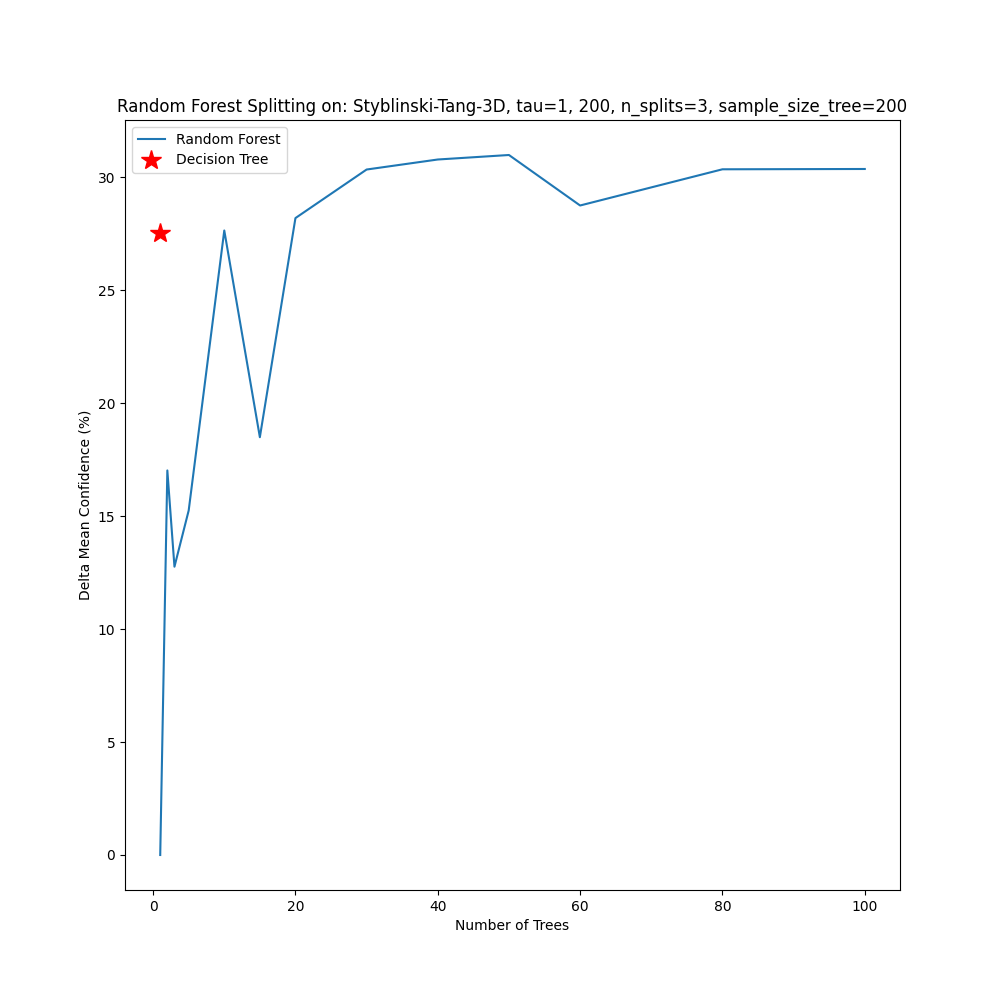
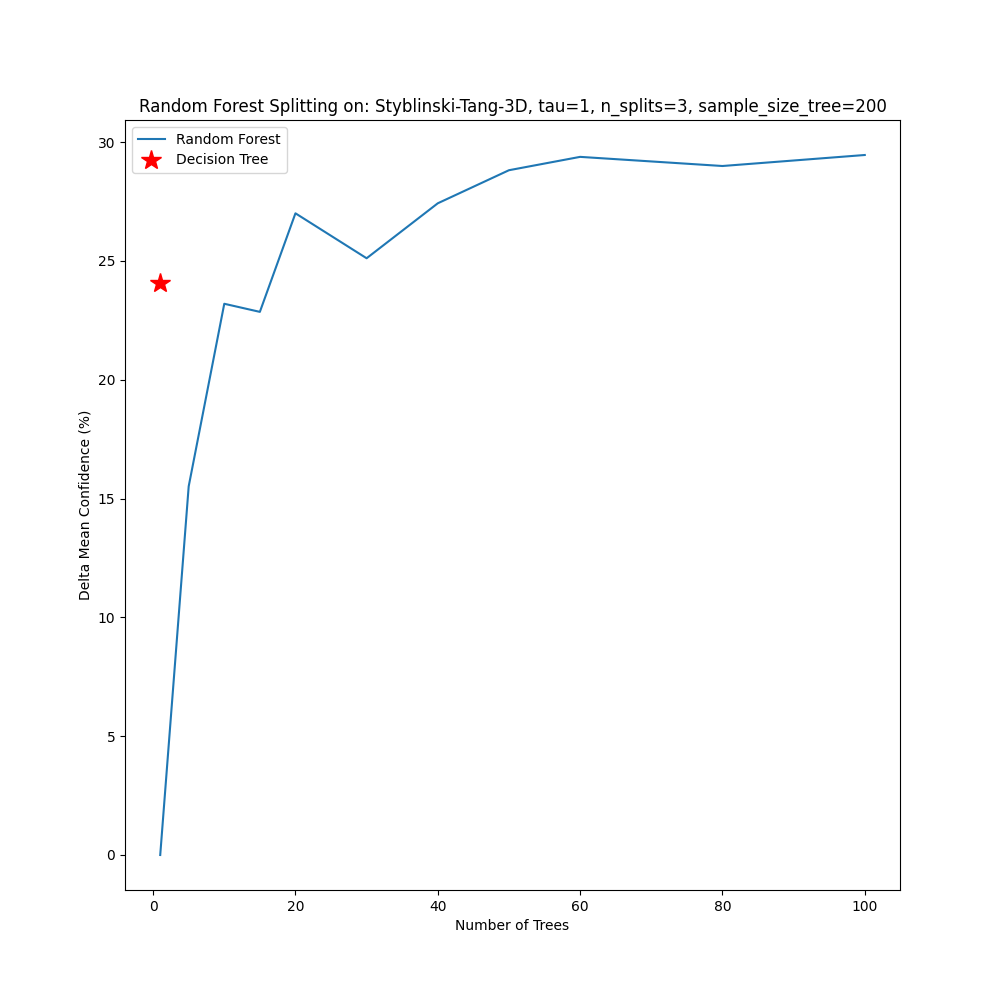
Changed Integral Calculation in Region + some bugfixes

diff --git a/src/main_paper.py b/src/main_paper.py
@@ -19,8 +19,9 @@ from src.sampler.acquisition_function import LowerConfidenceBound
 from src.sampler.bayesian_optimization import BayesianOptimizationSampler
 from src.sampler.random_sampler import RandomSampler
 from src.surrogate_models.sklearn_surrogates import GaussianProcessSurrogate
-from src.utils.plotting import plot_function, plot_config_space
-from src.utils.utils import calculate_log_delta
+from src.utils.plotting import plot_function, plot_config_space, plot_1D_confidence_lines, \
+    plot_1D_confidence_color_gradients, plot_line
+from src.utils.utils import calculate_log_delta, unscale
 
 warnings.filterwarnings("ignore", category=ConvergenceWarning)
 
@@ -177,13 +178,14 @@ def figure_6_table_1_data_generation(
                         f.config_space,
                         initial_points=4 * dimension,
                         acq_class=LowerConfidenceBound,
-                        acq_class_kwargs={"tau": tau}
+                        acq_class_kwargs={"tau": tau},
+                        seed=seed
                     )
                     sampler.sample(n_samples + sampler.initial_points)
 
-                    mmd = sampler.maximum_mean_discrepancy(300)
+                    mmd = sampler.maximum_mean_discrepancy(n_samples + sampler.initial_points, seed=seed)
 
-                    surrogate = GaussianProcessSurrogate(f.config_space)
+                    surrogate = GaussianProcessSurrogate(f.config_space, seed=seed)
                     surrogate.fit(sampler.X, sampler.y)
 
                     dt_partitioner = DecisionTreePartitioner.from_random_points(
@@ -198,7 +200,8 @@ def figure_6_table_1_data_generation(
                         dt_partitioner.partition(splits)
                         incumbent_region = dt_partitioner.get_incumbent_region(sampler.incumbent_config)
                         mc = incumbent_region.mean_confidence
-                        nll = incumbent_region.negative_log_likelihood(f)
+                        f_region = StyblinskiTang(incumbent_region.implied_config_space(seed=seed))
+                        nll = incumbent_region.negative_log_likelihood(f_region)
                         print(f"{seed=},{dimension=},{tau=},{splits=},{mmd=},{base_mc=},{base_nll=},{mc=},{nll=}")
                         d.write(f"{seed},{dimension},{tau},{splits},{mmd},{base_mc},{base_nll},{mc},{nll}\n")
                         d.flush()
@@ -338,9 +341,9 @@ def table_1_drawing(
             split_data_string = "  |  ".join(string_array)
             print(f"|  {dimension}  |  {tau:.2f} ({table_data[0][0]:.2f})   | " + split_data_string)
 
-def visualize_bad_nll():
+
+def visualize_bad_nll(num_replications: int = 30):
     # worst table entry
-    seed = 1
     n_splits = 3
     tau = 0.1
     n_dim = 3
@@ -348,22 +351,64 @@ def visualize_bad_nll():
     n_initial_samples = n_dim * 4
     selected_hp = 'x1'
 
-    f = StyblinskiTang.for_n_dimensions(n_dim, seed=seed)
-    cs = f.config_space
-    sampler = BayesianOptimizationSampler(f, cs, acq_class_kwargs={"tau": tau}, initial_points=n_initial_samples,
-                                          seed=seed)
-    sampler.sample(n_samples + n_initial_samples)
+    y_pdp_original = 0
+    var_pdp_original = 0
+    y_pdp_region = 0
+    var_pdp_region = 0
+    y_gt_region = 0
+    grid_points = None
 
-    surrogate = GaussianProcessSurrogate(cs, seed=seed)
-    surrogate.fit(sampler.X, sampler.y)
+    base_nll = 0
+    region_nll = 0
+    delta_nll = 0
+    offset_sum = 0
+    for seed in range(num_replications):
+        f = StyblinskiTang.for_n_dimensions(n_dim, seed=seed)
+        cs = f.config_space
+        sampler = BayesianOptimizationSampler(f, cs, acq_class_kwargs={"tau": tau}, initial_points=n_initial_samples,
+                                              seed=seed)
+        sampler.sample(n_samples + n_initial_samples)
 
-    ice = ICE.from_random_points(surrogate, selected_hp)
-    partitioner = DecisionTreePartitioner.from_ICE(ice)
-    partitioner.partition(max_depth=n_splits)
-    region = partitioner.get_incumbent_region(sampler.incumbent[0])
+        surrogate = GaussianProcessSurrogate(cs, seed=seed)
+        surrogate.fit(sampler.X, sampler.y)
 
-    ground_truth = f.pd_integral(*['x2', 'x3'], seed=seed)
+        ice = ICE.from_random_points(surrogate, selected_hp, seed=seed)
+        partitioner = DecisionTreePartitioner.from_ICE(ice)
+        partitioner.partition(max_depth=n_splits)
+        region = partitioner.get_incumbent_region(sampler.incumbent[0])
 
+        ground_truth = f.pd_integral(*['x2', 'x3'], seed=seed)
+
+        f_region = StyblinskiTang(region.implied_config_space(seed=seed))
+        ground_truth_region, offset = f_region.pd_integral(*['x2', 'x3'], seed=seed, return_offset=True)
+        offset_sum += offset
+
+        # nll
+        base_nll += partitioner.root.negative_log_likelihood(f)
+        region_nll += region.negative_log_likelihood(f_region)
+        delta_nll += calculate_log_delta(region_nll, base_nll)
+
+        # root values
+        pdp = PDP.from_ICE(ice)
+        y_pdp_original = y_pdp_original + pdp.y_pdp
+        var_pdp_original = var_pdp_original + pdp.y_variances
+        grid_points = pdp.grid_points
+
+        # region values
+        y_pdp_region = y_pdp_region + region.pdp_as_ice_curve.y_ice
+        var_pdp_region = var_pdp_region + region.pdp_as_ice_curve.y_variances
+
+    # normalize
+    y_pdp_original = y_pdp_original / num_replications
+    var_pdp_original = var_pdp_original / num_replications
+    y_pdp_region = y_pdp_region / num_replications
+    var_pdp_region = var_pdp_region / num_replications
+    base_nll = base_nll / num_replications
+    region_nll = region_nll / num_replications
+    delta_nll = 100 * delta_nll / num_replications
+    offset = offset_sum / num_replications
+
+    # plot
     fig, axes = plt.subplots(
         nrows=1,
         ncols=2,
@@ -372,28 +417,30 @@ def visualize_bad_nll():
         figsize=(16, 8)
     )
 
-    # nll
-    base_nll = partitioner.root.negative_log_likelihood(f)
-    region_nll = region.negative_log_likelihood(f)
-    delta_nll = calculate_log_delta(region_nll, base_nll)
+    f = StyblinskiTang.for_n_dimensions(n_dim, seed=0)
+    ground_truth = f.pd_integral(*['x2', 'x3'], seed=0)
+    grid_points = unscale(grid_points, ground_truth.config_space).squeeze(axis=1)
+
+    def ground_truth_region(**args):
+        return ground_truth(**args) + offset
 
     # original pdp
-    pdp = PDP.from_ICE(ice)
-    pdp.plot_values(ax=axes[0])
-    pdp.plot_confidences(ax=axes[0])
-    plot_function(ground_truth, ground_truth.config_space, samples_per_axis=200, ax=axes[0], name='Analytic Integral')
+    plot_1D_confidence_color_gradients(grid_points, y_pdp_original, variances=var_pdp_original, ax=axes[0])
+    plot_1D_confidence_lines(grid_points, y_pdp_original, variances=var_pdp_original, ax=axes[0])
+    plot_line(grid_points, y_pdp_original, color='red', ax=axes[0])
+    plot_function(ground_truth, ground_truth.config_space, samples_per_axis=200, ax=axes[0])
     axes[0].legend()
     axes[0].set_title(f'Full PDP (NLL: {base_nll:.2f})')
 
     # split pdp
-    region.plot_values(ax=axes[1])
-    region.plot_confidences(ax=axes[1])
-    plot_function(ground_truth, ground_truth.config_space, samples_per_axis=200, ax=axes[1],
-                  name='Analytic Integral (Region)')
+    plot_1D_confidence_color_gradients(grid_points, y_pdp_region, variances=var_pdp_region, ax=axes[1])
+    plot_1D_confidence_lines(grid_points, y_pdp_region, variances=var_pdp_region, ax=axes[1])
+    plot_line(grid_points, y_pdp_region, color='red', ax=axes[1])
+    plot_function(ground_truth_region, ground_truth.config_space, samples_per_axis=200, ax=axes[1])
     axes[1].legend()
     axes[1].set_title(f'PDP in best Region (NLL: {region_nll:.2f})')
 
-    plt.suptitle(f'Styblinski-Tang, 3 Splits, Tau=0.1, 3 Dimensions, (%NLL {delta_nll:.4f}), {seed=}')
+    plt.suptitle(f'Styblinski-Tang, 3 Splits, Tau=0.1, 3 Dimensions, (%NLL {delta_nll:.4f})')
     plt.show()
 
 
@@ -401,8 +448,8 @@ if __name__ == '__main__':
     # figure_1_3()
     # figure_2()
     # figure_4()
-    # figure_6_table_1_data_generation(log_filename="figure_6.csv", replications=30, seed_offset=0)
-    # figure_6_drawing("figure_6.csv")
-    # table_1_drawing("figure_6.csv")
+    # figure_6_table_1_data_generation(log_filename="figure_6_3.csv", replications=30, seed_offset=0)
+    figure_6_drawing("figure_6_2.csv")
+    table_1_drawing("figure_6_2.csv")
     # figure_6_table_1_drawing("figure_6_table_1.csv", columns=("base_mc", "base_nll", "mc", "nll", "mmd"))
-    visualize_bad_nll()
+    # visualize_bad_nll()

diff --git a/test/sampler/test_mmd.py b/test/sampler/test_mmd.py
@@ -1,8 +1,4 @@
 from matplotlib import pyplot as plt
-from sklearn.gaussian_process import GaussianProcessRegressor
-from sklearn.gaussian_process.kernels import Matern
-from sklearn.pipeline import Pipeline
-from sklearn.preprocessing import StandardScaler
 
 from src.blackbox_functions.synthetic_functions import StyblinskiTang
 from src.sampler.bayesian_optimization import BayesianOptimizationSampler
@@ -13,15 +9,16 @@ from test import PlottableTest
 
 class TestSampler(PlottableTest):
     def test_mmd_random(self):
-        f = StyblinskiTang.for_n_dimensions(2, seed=42)
+        seed = 0
+        f = StyblinskiTang.for_n_dimensions(2, seed=seed)
         cs = f.config_space
-        n = 550  # Sampler
-        m = 550  # Uniform
+        n = 2000  # Sampler
+        m = 2000  # Uniform
 
         # Random
-        random_sampler = RandomSampler(f, cs, seed=42)
+        random_sampler = RandomSampler(f, cs, seed=seed)
         random_sampler.sample(n)
-        mmd_random = random_sampler.maximum_mean_discrepancy(m=m)
+        mmd_random = random_sampler.maximum_mean_discrepancy(m=m, seed=None)
         print("MMD Random:", mmd_random)
 
         # Plot
@@ -66,12 +63,14 @@ class TestSampler(PlottableTest):
         cs = f.config_space
         n = 150  # Sampler
         m = 150  # Uniform
+        seed = 0
 
-        for tau in (0.1, 2, 5):
+        for tau in (0.1, 1, 5):
             # Bayesian
             random_sampler = BayesianOptimizationSampler(f, cs,
                                                          initial_points=f.ndim * 4,
-                                                         acq_class_kwargs={"tau": tau})
+                                                         acq_class_kwargs={"tau": tau},
+                                                         seed=seed)
             random_sampler.sample(n)
-            mmd_bayesian = random_sampler.maximum_mean_discrepancy(m=m)
+            mmd_bayesian = random_sampler.maximum_mean_discrepancy(m=m, seed=seed)
             print(f"Tau: {tau}, MMD: {mmd_bayesian}")

diff --git a/src/blackbox_functions/synthetic_functions.py b/src/blackbox_functions/synthetic_functions.py
@@ -1,7 +1,7 @@
 """
 Collection of blackbox functions that can be minimized
 """
-from typing import Union, List
+from typing import Union, List, Tuple
 
 import ConfigSpace as CS
 import ConfigSpace.hyperparameters as CSH
@@ -124,7 +124,9 @@ class StyblinskiTang(BlackboxFunctionND):
     def _styblinski_tang_integral(x: float) -> float:
         return 0.5 * (0.2 * np.power(x, 5) - 16 / 3 * np.power(x, 3) + 2.5 * np.power(x, 2))
 
-    def pd_integral(self, *hyperparameters: Union[str, CSH.Hyperparameter], seed=None) -> BlackboxFunction:
+    def pd_integral(self, *hyperparameters: Union[str, CSH.Hyperparameter], seed=None,
+                    return_offset: bool = False) -> Union[
+        CallableBlackboxFunction, tuple[CallableBlackboxFunction, float]]:
         if len(hyperparameters) == 0:
             raise ValueError("Requires at least one hyperparameter for pd_integral")
 
@@ -152,8 +154,11 @@ class StyblinskiTang(BlackboxFunctionND):
         def integral(config: CS.Configuration):
             return reduced_f.value_from_config(config) + integral_offset
 
-        return CallableBlackboxFunction(integral, reduced_cs, name=f"{self.__name__} d({hyperparameter_names})")
-
+        if not return_offset:
+            return CallableBlackboxFunction(integral, reduced_cs, name=f"{self.__name__} d({hyperparameter_names})")
+        else:
+            return (CallableBlackboxFunction(integral, reduced_cs, name=f"{self.__name__} d({hyperparameter_names})"),
+                    integral_offset)
 
 
 

diff --git a/src/sampler/__init__.py b/src/sampler/__init__.py
@@ -14,7 +14,7 @@ from sklearn.gaussian_process.kernels import RBF
 from src.utils.plotting import get_ax, check_and_set_axis
 from src.utils.typing import ColorType, SelectedHyperparameterType
 from src.utils.utils import config_list_to_array, get_hyperparameters, median_distance_between_points, \
-    ConfigSpaceHolder
+    ConfigSpaceHolder, copy_config_space
 
 
 class Sampler(ConfigSpaceHolder, ABC):
@@ -150,12 +150,14 @@ class Sampler(ConfigSpaceHolder, ABC):
         """ Samples n_points new points """
         pass
 
-    def maximum_mean_discrepancy(self, m: Optional[int] = None) -> float:
+    def maximum_mean_discrepancy(self, m: Optional[int] = None, seed=None) -> float:
         # Get and transform samples
         if m is None:
             m = len(self)
         X_samples = config_list_to_array(self.X)
-        X_uniform = config_list_to_array(self.config_space.sample_configuration(m))
+
+        new_cs = copy_config_space(self.config_space, seed=seed)
+        X_uniform = config_list_to_array(new_cs.sample_configuration(m))
         X = np.concatenate((X_samples, X_uniform))
 
         # Calculate

diff --git a/src/main_random_forest.py b/src/main_random_forest.py
@@ -16,10 +16,10 @@ from src.utils.utils import calculate_log_delta
 warnings.filterwarnings("ignore", category=ConvergenceWarning)
 
 def analyze_num_trees(  # Hyperparameter Analysis: Number of Trees
-        num_replication: int = 5,
+        num_replication: int = 10,
         num_tree_list: List[int] = None):
     if num_tree_list is None:
-        num_tree_list = [1, 2, 3, 5, 10, 15, 20, 30, 40, 50, 60, 80, 100]
+        num_tree_list = [1, 5, 10, 15, 20, 30, 40, 50, 60, 80, 100]
         # num_tree_list = [1, 2, 3]
     n_splits = 3
     tau = 1
@@ -79,9 +79,6 @@ def analyze_num_trees(  # Hyperparameter Analysis: Number of Trees
     plt.plot(1, dt_delta_mc, "*", color='red', label='Decision Tree', markersize=15)
     plt.legend()
     plt.savefig('../results/random_forest/RF_Hyperparameter_analysis_num_trees')
-
-
-
 
 
 if __name__ == '__main__':

diff --git a/src/algorithms/partitioner/__init__.py b/src/algorithms/partitioner/__init__.py
@@ -68,7 +68,7 @@ class Region(ConfigSpaceHolder):
         selected_hyperparameter_names = {hp.name for hp in self.selected_hyperparameter}
         not_selected_hp = [
             hp
-            for hp in self.config_space.get_hyperparameters()
+            for hp in true_function.config_space.get_hyperparameters()
             if hp.name not in selected_hyperparameter_names
         ]
 
